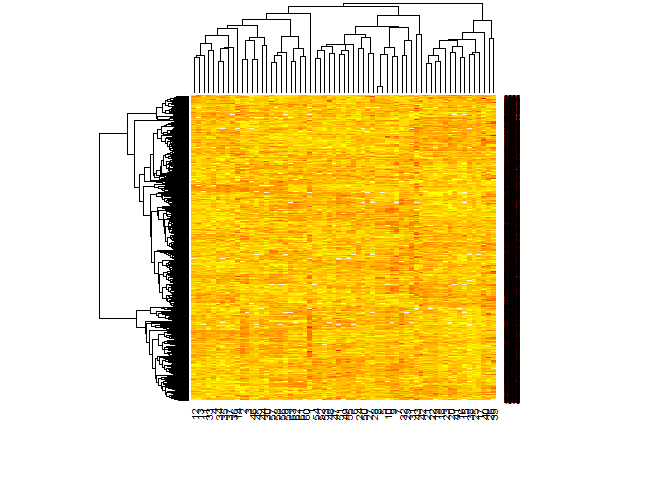
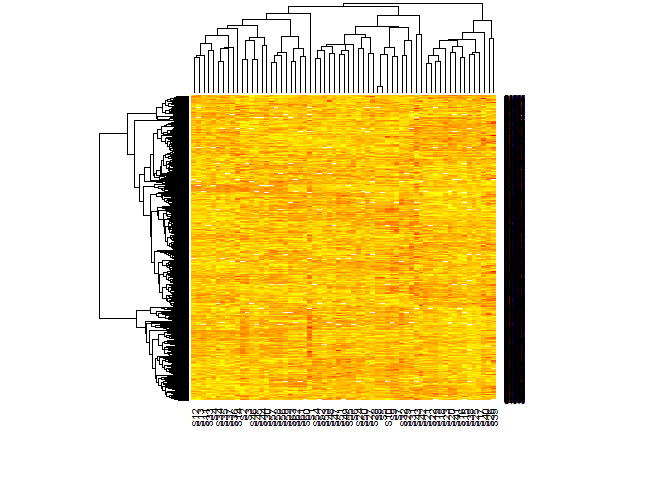
Missing data plot fix

Changed region(s): [[0.75, 0.1875, 0.7812, 0.8438], [0.2812, 0.8438, 0.75, 0.9062]]

diff --git a/README.md b/README.md
@@ -40,17 +40,17 @@ Preparing data
 
 ``` r
 gene.expression.values <- khanmiss[-1, -(1:2)]
-rownames(gene.expression.values) <- 1:nrow(gene.expression.values)
-colnames(gene.expression.values) <- 1:ncol(gene.expression.values)
+rownames(gene.expression.values) <- paste0("G",1:nrow(gene.expression.values))
+colnames(gene.expression.values) <- paste0("S",1:ncol(gene.expression.values))
 gene.expression.values[] <- lapply(gene.expression.values[], function (x) as.numeric(levels(x)[x]))
-gene.expression.values <- as.matrix(gene.expression.values)
+gene.expression.values <- as.matrix(gene.expression.values)#[1:20, 1:4]
 str(gene.expression.values)
 ```
 
     ##  num [1:2308, 1:63] 0.773 -2.438 -0.483 -2.721 -1.217 ...
     ##  - attr(*, "dimnames")=List of 2
-    ##   ..$ : chr [1:2308] "1" "2" "3" "4" ...
-    ##   ..$ : chr [1:63] "1" "2" "3" "4" ...
+    ##   ..$ : chr [1:2308] "G1" "G2" "G3" "G4" ...
+    ##   ..$ : chr [1:63] "S1" "S2" "S3" "S4" ...
 
 Checking missing values
 -----------------------
@@ -74,9 +74,17 @@ Data patterns
 ### Histogram
 
 ``` r
-par(mfrow=c(1, 1), mar=c(4, 4, 2, 0), xaxt="s", yaxt="s", xaxs="r", yaxs="r")
-hist(gene.expression.values, pch=20, col=rgb(0,0,0,0.05), cex=0.1,
+hist(gene.expression.values, freq = FALSE, pch=20, col=rgb(0,0,0,0.03), cex=0.1,
      main = "Histogram of Gene Expression Values", xlab = "Gene Expression Values")
+## Normal Curve
+x <- gene.expression.values
+mean <- mean(gene.expression.values, na.rm = TRUE)
+sd <- sd(gene.expression.values, na.rm = TRUE)
+curve(dnorm(x, mean, sd), add = TRUE, col = "blue", lwd = 2)
+## Kernel density estimation
+lines(density(gene.expression.values, na.rm = TRUE), col = "red", lwd = 2)
+## Legend
+legend("topright", lwd = 2, col = c("blue", "red"), text.col = c("blue", "red"), legend = c("Normal Curve", "Kernel Density"))
 ```
 
 ![](README_files/figure-markdown_github/Histogram%20of%20Gene%20Expression%20Values-1.png)
@@ -85,8 +93,9 @@ hist(gene.expression.values, pch=20, col=rgb(0,0,0,0.05), cex=0.1,
 
 ``` r
 matplot(gene.expression.values, pch=20, cex=0.1, col=rgb(0,0,0,0.1),
-        xlab = "Genes", ylab = "Gene Expression Values", xlim=c(1,nrow(gene.expression.values)),
-        main = "Gene Expression Values by Gene")
+        xlim=c(1,nrow(gene.expression.values)),
+        main = "Gene Expression Values by Gene", 
+        xlab = "Genes", ylab = "Gene Expression Values")
 ```
 
 ![](README_files/figure-markdown_github/Gene%20Expression%20Values%20by%20Gene-1.png)
@@ -95,8 +104,9 @@ matplot(gene.expression.values, pch=20, cex=0.1, col=rgb(0,0,0,0.1),
 
 ``` r
 matplot(t(gene.expression.values), pch=20, cex=1, col=rgb(0,0,0,0.1),
-        xlab = "Samples", ylab = "Gene Expression Values", xlim=c(1,ncol(gene.expression.values)),
-        main = "Gene Expression Values by Samples")
+        xlim=c(1,ncol(gene.expression.values)),
+        main = "Gene Expression Values by Samples", 
+        xlab = "Samples", ylab = "Gene Expression Values")
 ```
 
 ![](README_files/figure-markdown_github/Gene%20Expression%20Values%20by%20Samples-1.png)
@@ -105,12 +115,32 @@ matplot(t(gene.expression.values), pch=20, cex=1, col=rgb(0,0,0,0.1),
 
 ``` r
 image(x = 1:ncol(gene.expression.values), y = 1:nrow(gene.expression.values), z = t(gene.expression.values),
-      ylim=c(nrow(gene.expression.values),1), col=1, xlab = "Samples", ylab = "Gene", main="Missing Gene Expression Values")
+      ylim=c(nrow(gene.expression.values),1), col=1, xlab = "Samples", ylab = "Genes", main="Missing Gene Expression Values")
 ```
 
 ![](README_files/figure-markdown_github/Gene%20Expression%20Matrix%20image-1.png)
 
-### Hierarchical clustering
+### Hierarchical cluster of the Samples
+
+``` r
+(hclust<- hclust(dist(t(gene.expression.values))))
+```
+
+    ## 
+    ## Call:
+    ## hclust(d = dist(t(gene.expression.values)))
+    ## 
+    ## Cluster method   : complete 
+    ## Distance         : euclidean 
+    ## Number of objects: 63
+
+``` r
+plot(hclust, xlab = "Sample distance", main = "Hierarchical cluster of the Samples")
+```
+
+![](README_files/figure-markdown_github/Hierarchical%20cluster%20of%20the%20Samples-1.png)
+
+### Hierarchical cluster of the Genes
 
 ``` r
 (hclust<- hclust(dist(gene.expression.values)))
@@ -124,13 +154,11 @@ image(x = 1:ncol(gene.expression.values), y = 1:nrow(gene.expression.values), z 
     ## Distance         : euclidean 
     ## Number of objects: 2308
 
-### Cluster Dendogram
-
 ``` r
-plot(hclust, hang=0, labels= FALSE)
+plot(hclust, hang=0.1, labels = FALSE, xlab = "Gene distance", main = "Hierarchical cluster of the Genes")
 ```
 
-![](README_files/figure-markdown_github/Gene%20Expression%20Cluster%20Dendogram-1.png)
+![](README_files/figure-markdown_github/Hierarchical%20cluster%20of%20the%20Genes-1.png)
 
 ### Heatmap
 
@@ -152,23 +180,35 @@ imputed <- impute.knn(gene.expression.values)
     ## Done cluster 1450 
     ## Done cluster 858
 
+Matrix of imputed values only
+
 ``` r
-matplot(imputed$data, pch=20, cex=0.1, col=rgb(missing,0,0,(missing*0.9)+0.1),
-        xlab = "Genes", ylab = "Gene Expression Values", xlim=c(1,nrow(imputed$data)),
-        main = "Gene Expression Values by Gene")
+missing.points <- missing
+missing.points[!missing] <- NA
+missing.points[missing] <- imputed$data[missing]
+```
+
+``` r
+matplot(imputed$data, pch=20, cex=0.1, col=rgb(0,0,0,0.1),
+        xlim=c(1,nrow(imputed$data)),
+        main = "Gene Expression Values by Gene after imputation", 
+        xlab = "Genes", ylab = "Gene Expression Values by Gene")
+matpoints(missing.points, pch=20, cex=0.1, col=rgb(1,0,0,0.5))
 legend("bottomright", pch = c(20,20), col = c("black", "red"), text.col = c("black", "red"), legend = c("former", "imputed"))
 ```
 
-![](README_files/figure-markdown_github/Imputed%20Gene%20Expression%20Values%20by%20Gene-1.png)
+![](README_files/figure-markdown_github/Gene%20Expression%20Values%20by%20Gene%20after%20imputation-1.png)
 
 ``` r
-matplot(t(imputed$data), pch=20, cex=1, col=rgb(missing,0,0,(missing*0.9)+0.1),
-        xlab = "Samples", ylab = "Gene Expression Values", xlim=c(1,ncol(imputed$data)),
-        main = "Gene Expression Values by Sample")
+matplot(t(imputed$data), pch=20, cex=1, col=rgb(0,0,0,0.1),
+        xlim=c(1,ncol(imputed$data)),
+        main = "Gene Expression Values by Sample after imputation",
+        xlab = "Samples", ylab = "Gene Expression Values")
+matpoints(t(missing.points), pch=20, cex=1, col=rgb(1,0,0,0.5))
 legend("bottomright", pch = c(20,20), col = c("black", "red"), text.col = c("black", "red"), legend = c("former", "imputed"))
 ```
 
-![](README_files/figure-markdown_github/Imputed%20Gene%20Expression%20Values%20by%20Sample-1.png)
+![](README_files/figure-markdown_github/Gene%20Expression%20Values%20by%20Sample%20after%20imputation-1.png)
 
 `rng.seed` is the seed used for the random number generator (default 362436069) for reproducibility.
 
